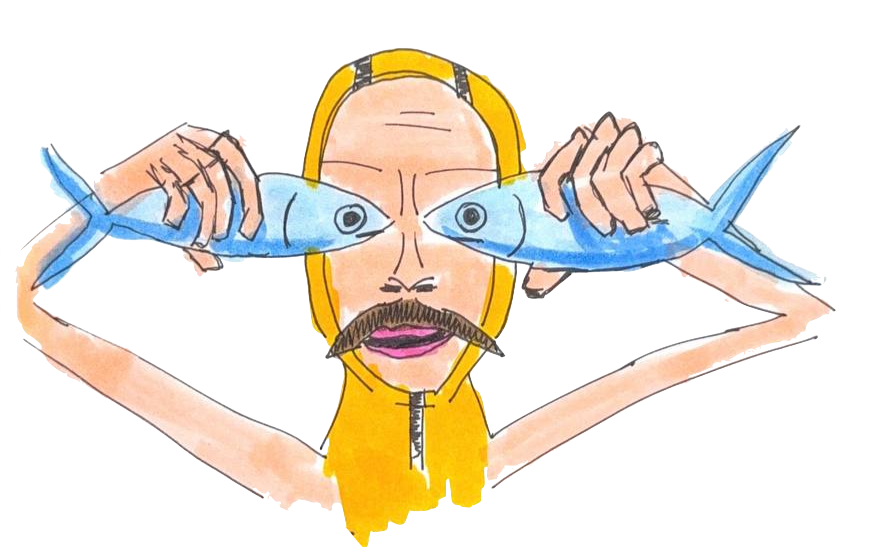
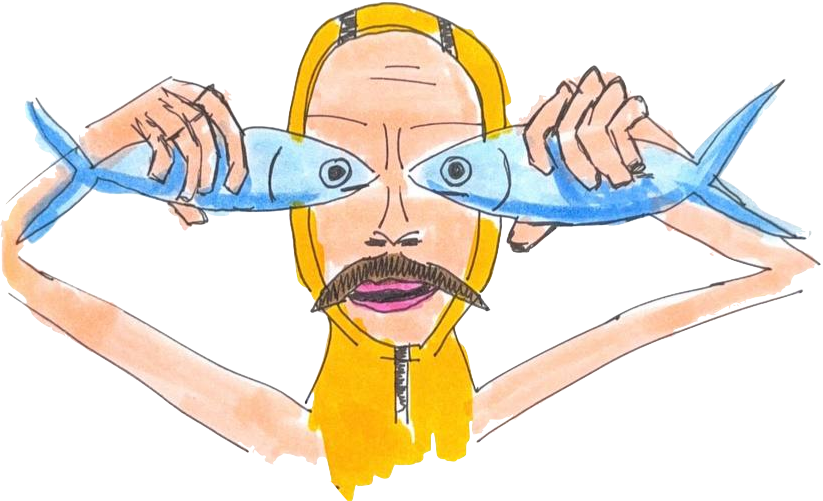
Little things

diff --git a/src/styles.css b/src/styles.css
@@ -207,6 +207,17 @@ body {
   text-shadow: 4px 4px 0 rgba(0, 0, 0, 0.5);
 }
 
+.intro-by {
+  margin-top: 6px;
+  font-size: 24px;
+  font-weight: 600;
+  font-style: italic;
+  letter-spacing: 2px;
+  color: #fff;
+  opacity: 0.75;
+  text-shadow: 2px 2px 0 rgba(0, 0, 0, 0.4);
+}
+
 .intro-vs {
   font-size: 28px;
   font-weight: 700;
@@ -471,7 +482,8 @@ body {
 /* wobble: rock ±5deg, pivoting near the feet (centred, ~10px up from bottom) */
 .fighter.move-wobble .fighter-body {
   transform-origin: 50% calc(100% - 10px);
-  animation: move-wobble 0.5s ease-in-out infinite;
+  animation: move-wobble calc(0.5s * var(--anim-speed, 1)) ease-in-out infinite;
+  animation-delay: var(--anim-delay, 0s);
 }
 
 @keyframes move-wobble {
@@ -488,7 +500,8 @@ body {
    pivoting from the floor so the squash flattens onto the ground */
 .fighter.move-jump .fighter-body {
   transform-origin: 50% 100%;
-  animation: move-jump 0.7s infinite;
+  animation: move-jump calc(0.7s * var(--anim-speed, 1)) infinite;
+  animation-delay: var(--anim-delay, 0s);
 }
 
 @keyframes move-jump {
@@ -648,6 +661,16 @@ body {
   text-transform: uppercase;
   letter-spacing: 6px;
   text-shadow: 4px 4px 0 rgba(0, 0, 0, 0.5);
+}
+
+.victory-by {
+  margin-top: 6px;
+  font-size: 22px;
+  font-weight: 600;
+  font-style: italic;
+  letter-spacing: 2px;
+  opacity: 0.75;
+  text-shadow: 2px 2px 0 rgba(0, 0, 0, 0.4);
 }
 
 /* ---------- Draw ---------- */

diff --git a/src/battlers.ts b/src/battlers.ts
@@ -15,9 +15,15 @@ type MovementType = 'wobble' | 'jump' | 'glide';
 export interface Battler {
   id: number;
   name: string;
+  by?: string;
   color: string;
   imageUrl?: string;
   movementType?: MovementType;
+  // Per-fighter walk-cycle timing so the roster doesn't bounce in lockstep.
+  // animSpeed scales the base duration (>1 = slower); animDelay is a negative
+  // phase offset (seconds) so fighters start at different points in the cycle.
+  animSpeed?: number;
+  animDelay?: number;
 }
 
 const NAME_POOL = [
@@ -45,11 +51,11 @@ const PRESET_BATTLERS: Omit<Battler, 'id'>[] = [
   { name: 'Psyduck', color: '#FFD700', imageUrl: psyduckImg, movementType: 'wobble' },
   { name: 'Ant Head', color: '#4d8bff', imageUrl: antHeadImg, movementType: 'glide' },
   { name: 'Bolt', color: '#ff5a3c', imageUrl: boltImage, movementType: 'jump' },
-  { name: 'Monkey', color: '#FFA500', imageUrl: monkeyImg, movementType: 'wobble' },
-  { name: 'Cabbage', color: '#32CD32', imageUrl: cabbageImg, movementType: 'jump' },
+  { name: 'Monkatt', by: 'Alisa', color: '#FFA500', imageUrl: monkeyImg, movementType: 'wobble' },
+  { name: 'Lady Cabbage', by: 'Alisa', color: '#32CD32', imageUrl: cabbageImg, movementType: 'jump' },
   { name: 'Mr Hoppy', color: '#8B4513', imageUrl: mrHoppyImg, movementType: 'jump' },
-  { name: 'Spiker', color: '#708090', imageUrl: spikerImg, movementType: 'glide' },
-  { name: 'Fish Eyes', color: '#20B2AA', imageUrl: fishEyesImg, movementType: 'wobble' },
+  { name: 'Spiker', by: 'Olesia', color: '#708090', imageUrl: spikerImg, movementType: 'glide' },
+  { name: 'Fish Eyes', by: 'Alisa', color: '#20B2AA', imageUrl: fishEyesImg, movementType: 'wobble' },
 ];
 
 function shuffle<T>(arr: T[]): T[] {
@@ -87,7 +93,14 @@ export function generateBattlers(count = 8): Battler[] {
     movementType: ['wobble', 'jump', 'glide'][Math.floor(Math.random() * 3)] as MovementType,
   }));
 
-  return [...presets, ...generated];
+  // Give every fighter (presets included) its own walk-cycle timing so they
+  // don't all bounce/wobble in sync. ~0.75x–1.35x speed, with a random phase
+  // offset of up to a full second.
+  return [...presets, ...generated].map((b) => ({
+    ...b,
+    animSpeed: 0.75 + Math.random() * 0.6,
+    animDelay: Math.random(),
+  }));
 }
 
 // A default roster, generated once at module load.

diff --git a/src/Battle.tsx b/src/Battle.tsx
@@ -82,6 +82,7 @@ interface Entity extends Battler {
   shieldOpacity: number; // current shield-circle opacity (display)
   strengthUntil: number; // timestamp the strength buff ends
   speedUntil: number; // timestamp the speed buff ends
+  speedActive: boolean; // display: speed buff currently active (speeds the walk cycle)
   scale: number; // current sprite scale (display; 1 or STRENGTH_SCALE)
   nextAttack: number; // timestamp the fighter may attack again
   nextRetarget: number; // timestamp to re-pick a heading
@@ -129,6 +130,7 @@ export default function Battle(props: {
       shieldOpacity: 0,
       strengthUntil: 0,
       speedUntil: 0,
+      speedActive: false,
       scale: 1,
       nextAttack: now0 + Math.random() * 400,
       nextRetarget: now0 + 500 + Math.random() * 1000,
@@ -286,6 +288,7 @@ export default function Battle(props: {
 
           // Speed power-up scales the step (so it kicks in/out immediately).
           const sm = now < e.speedUntil ? SPEED_MULT : 1;
+          e.speedActive = sm > 1; // also speeds up the walk-cycle animation
           const nx = e.x + e.vx * dt * sm;
           const ny = e.y + e.vy * dt * sm;
           if (insideEllipse(nx, ny)) {
@@ -486,7 +489,15 @@ export default function Battle(props: {
                   style={{ transform: `scaleX(${e.facing * e.scale}) scaleY(${e.scale})` }}
                 >
                   {/* body carries the walk animation, so the shield rides along */}
-                  <div class="fighter-body">
+                  <div
+                    class="fighter-body"
+                    style={{
+                      // Smaller value = shorter duration = faster cycle; the
+                      // speed power-up shortens it by SPEED_MULT to match.
+                      '--anim-speed': (e.animSpeed ?? 1) / (e.speedActive ? SPEED_MULT : 1),
+                      '--anim-delay': `${-(e.animDelay ?? 0)}s`,
+                    }}
+                  >
                     <BattlerSprite
                       battler={e}
                       width={sizes[e.id].w}

diff --git a/index.html b/index.html
@@ -4,7 +4,12 @@
     <meta charset="utf-8" />
     <meta name="viewport" content="width=device-width, initial-scale=1" />
     <meta name="theme-color" content="#000000" />
-    <title>Solid App</title>
+    <link rel="icon" type="image/png" href="%BASE_URL%favicon-96x96.png" sizes="96x96" />
+    <link rel="icon" type="image/svg+xml" href="%BASE_URL%favicon.svg" />
+    <link rel="shortcut icon" href="%BASE_URL%favicon.ico" />
+    <link rel="apple-touch-icon" sizes="180x180" href="%BASE_URL%apple-touch-icon.png" />
+    <link rel="manifest" href="%BASE_URL%site.webmanifest" />
+    <title>Let's Battle</title>
   </head>
   <body>
     <noscript>You need to enable JavaScript to run this app.</noscript>

diff --git a/src/Victory.tsx b/src/Victory.tsx
@@ -1,4 +1,4 @@
-import { onCleanup } from 'solid-js';
+import { onCleanup, Show } from 'solid-js';
 import type { Battler } from './battlers';
 import Streaks from './Streaks';
 import BattlerSprite from './BattlerSprite';
@@ -16,6 +16,9 @@ export default function Victory(props: { winner: Battler; onDone: () => void }) 
       <div class="victory-banner">Winner</div>
       <BattlerSprite battler={props.winner} width={280} height={420} class="victory-fighter" />
       <div class="victory-name">{props.winner.name}</div>
+      <Show when={props.winner.by}>
+        <div class="victory-by">by {props.winner.by}</div>
+      </Show>
       <button class="start-btn" style={{ 'margin-top': '32px' }} onClick={props.onDone}>
         Menu
       </button>

diff --git a/src/Intro.tsx b/src/Intro.tsx
@@ -43,6 +43,9 @@ export default function Intro(props: { battlers: Battler[]; onDone: () => void }
             >
               <BattlerSprite battler={b} width={240} height={360} class="intro-fighter" />
               <div class="intro-name">{b.name}</div>
+              <Show when={b.by}>
+                <div class="intro-by">by {b.by}</div>
+              </Show>
               <div class="intro-vs">
                 Fighter {index() + 1} / {props.battlers.length}
               </div>

diff --git a/src/App.tsx b/src/App.tsx
@@ -10,7 +10,7 @@ import './styles.css';
 type Phase = 'menu' | 'intro' | 'battle' | 'victory' | 'draw';
 
 // Dev toggle: jump straight from the menu into the battle, skipping the intro.
-const SKIP_INTRO = true;
+const SKIP_INTRO = false;
 
 const App: Component = () => {
   const [phase, setPhase] = createSignal<Phase>('menu');